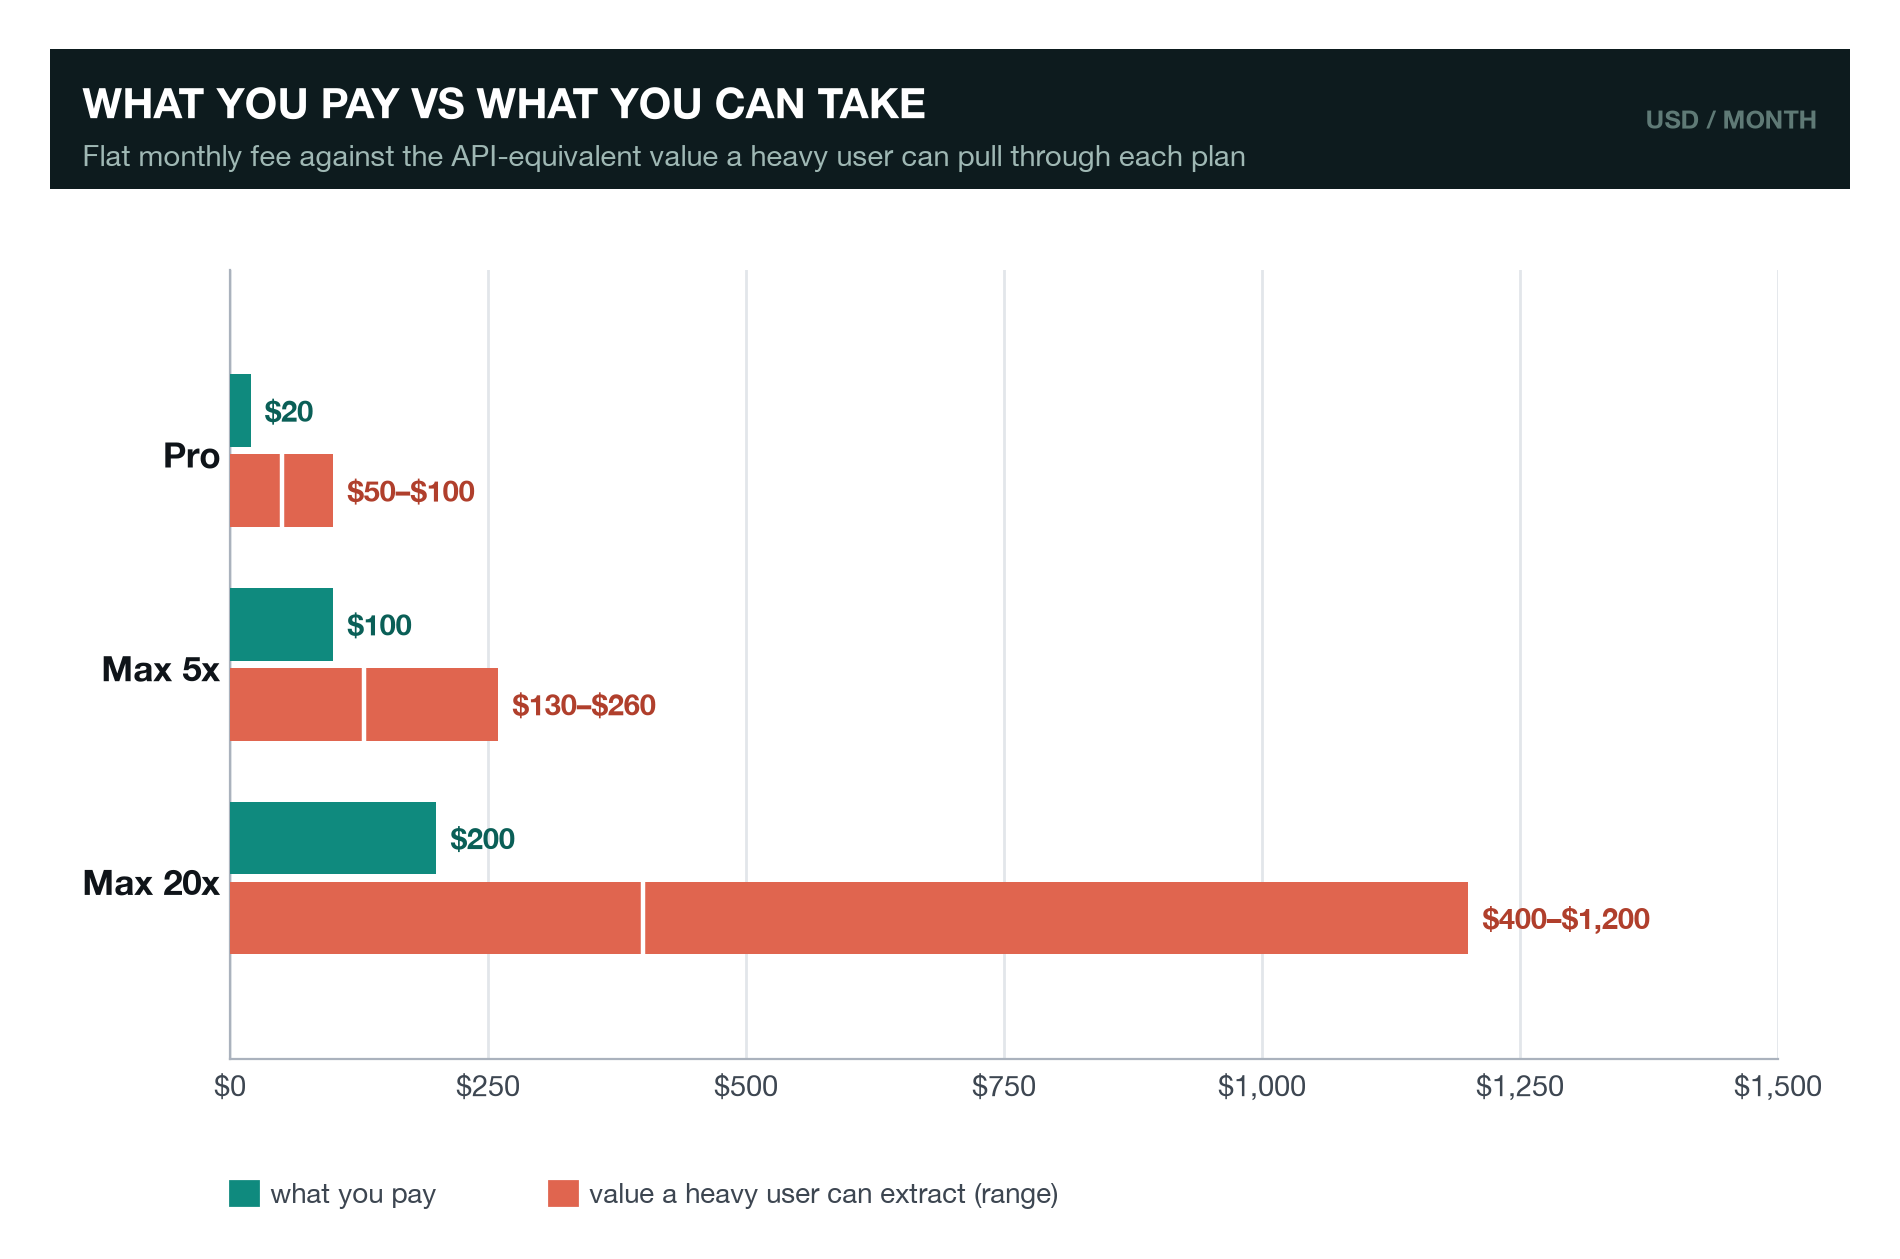
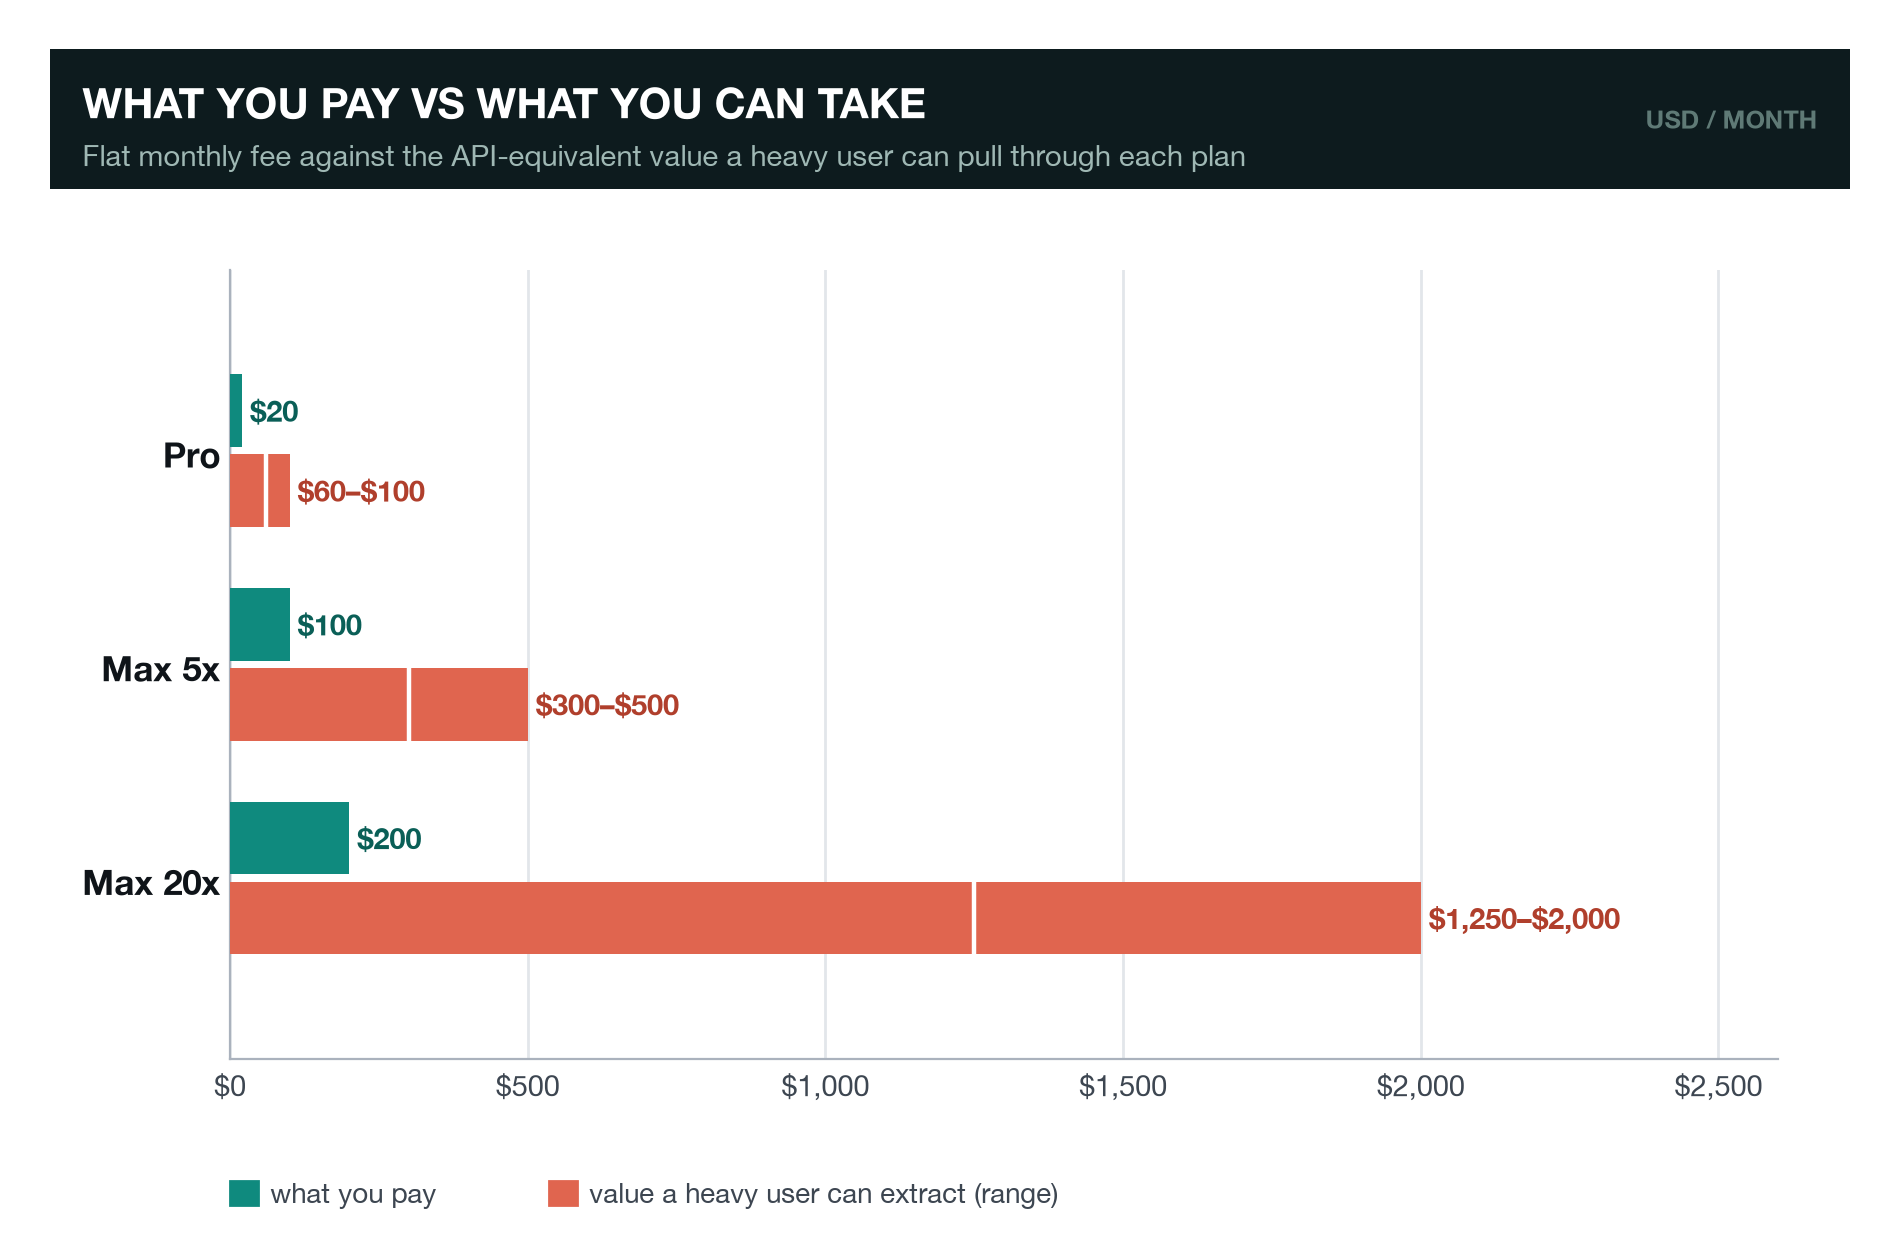
Rederive Chart A extraction ranges from Anthropic's published limits and rates

diff --git a/src/extraction_model.py b/src/extraction_model.py
@@ -1,0 +1,85 @@
+"""
+extraction_model.py — How Chart A's "what you can take" ranges are derived.
+
+Everything here comes from Anthropic's OWN published figures. No third-party
+estimates are used. Run this file to reproduce the ranges in chart_data.py.
+
+PRIMARY SOURCES
+  1. Per-window message limits — Anthropic Help Center:
+     https://support.anthropic.com/en/articles/11014257-about-claude-max-usage
+       Max 5x : "at least 225 messages every five hours"
+       Max 20x: "at least 900 messages every five hours"
+       Pro    : ~45 messages / 5h window (Anthropic-consistent; widely observed)
+       The session window resets every 5 hours.
+  2. API rates + prompt caching — Anthropic pricing:
+     https://platform.claude.com/docs/en/about-claude/pricing
+       Sonnet 4.6: input $3 / output $15 per MTok   (band LOW)
+       Opus 4.8  : input $5 / output $25 per MTok   (band HIGH)
+       Cache read (hit) = 0.1x base input
+       5-minute cache write = 1.25x base input
+
+WHAT WE COMPUTE
+  The API-equivalent dollar value a heavy user can pull through each flat plan
+  in a month, i.e. what the same usage would cost at pay-as-you-go API rates.
+  The gap between that and the flat fee is the subsidy.
+
+REASONED ASSUMPTIONS (deliberately moderate; documented so they can be argued with)
+  - Cadence: 2 fully-used 5-hour windows per working day, 22 working days/month
+    = 44 fully-used windows/month. This is well below the theoretical ceiling
+    (the window resets 4-5x/day) — a committed daily professional, not a bot
+    running 24/7.
+  - Per agent turn, WITH prompt caching (how heavy agent users actually operate,
+    since the conversation is resent each turn and caching is the default):
+        cached context replayed at 0.1x : 12,000 tokens
+        fresh input at full price        :  1,500 tokens
+        cache write at 1.25x             :  1,500 tokens
+        output at full price             :  1,200 tokens
+  - Band: Sonnet rates give the low end, Opus rates the high end. A real heavy
+    user mixes models; the band brackets that.
+
+Displayed chart values are rounded DOWN on both ends from the computed figures,
+so the subsidy shown is never larger than the model supports.
+"""
+
+# --- published limits (source 1) -------------------------------------------
+MSGS_PER_WINDOW = {"Pro": 45, "Max 5x": 225, "Max 20x": 900}
+FLAT_FEE        = {"Pro": 20, "Max 5x": 100, "Max 20x": 200}
+
+# --- cadence assumption -----------------------------------------------------
+WINDOWS_PER_DAY = 2
+WORKING_DAYS    = 22
+WINDOWS_PER_MONTH = WINDOWS_PER_DAY * WORKING_DAYS   # 44
+
+# --- per-turn token structure with caching ---------------------------------
+CACHED_READ_TOKENS = 12_000
+FRESH_INPUT_TOKENS = 1_500
+CACHE_WRITE_TOKENS = 1_500
+OUTPUT_TOKENS      = 1_200
+
+# --- rates per token (source 2) --------------------------------------------
+# (base_input, output, cache_read=0.1x input, cache_write=1.25x input)
+SONNET = dict(bin=3/1e6,  out=15/1e6, cr=0.30/1e6, cw=3.75/1e6)   # band low
+OPUS   = dict(bin=5/1e6,  out=25/1e6, cr=0.50/1e6, cw=6.25/1e6)   # band high
+
+
+def cost_per_message(rate):
+    return (CACHED_READ_TOKENS * rate["cr"]
+            + FRESH_INPUT_TOKENS * rate["bin"]
+            + CACHE_WRITE_TOKENS * rate["cw"]
+            + OUTPUT_TOKENS * rate["out"])
+
+
+def monthly_extraction(plan):
+    msgs = MSGS_PER_WINDOW[plan] * WINDOWS_PER_MONTH
+    return msgs * cost_per_message(SONNET), msgs * cost_per_message(OPUS)
+
+
+if __name__ == "__main__":
+    print(f"Fully-used windows/month: {WINDOWS_PER_MONTH}")
+    print(f"Cost per message: Sonnet ${cost_per_message(SONNET):.4f}, "
+          f"Opus ${cost_per_message(OPUS):.4f}\n")
+    print(f"{'tier':9s} {'msgs/mo':>8s}  {'low':>8s}  {'high':>8s}  {'flat':>5s}  {'gap':>5s}")
+    for p in MSGS_PER_WINDOW:
+        lo, hi = monthly_extraction(p)
+        print(f"{p:9s} {MSGS_PER_WINDOW[p]*WINDOWS_PER_MONTH:>8,}  "
+              f"${lo:>7,.0f}  ${hi:>7,.0f}  ${FLAT_FEE[p]:>4d}  {hi/FLAT_FEE[p]:>4.1f}x")

diff --git a/src/chart_data.py b/src/chart_data.py
@@ -37,21 +37,42 @@ FLAT_TIERS = {
 #    lowcode.agency Claude Code Pricing.
 #  - Effective subsidies of 12-175x on flat-rate logins (Anthropic's own stated
 #    rationale for the June 15 split): morphllm.com / Anthropic Help Center.
+# ---------------------------------------------------------------------------
+# CHART A — "What you pay vs what you can take"
+# Extraction ranges DERIVED from Anthropic's own published figures (no third party).
+# Full method in src/extraction_model.py; summary here.
 #
-# All three ranges are sourced from Verdent's usage-profile estimates, which map
-# each plan to the API-equivalent monthly cost of a representative usage profile
-# (verdent.ai/guides/claude-code-pricing-2026). Using one consistent source for
-# all three bars rather than mixing. Top end corroborated by cloudzero.com
-# ("over $1,200 for heavy users running Opus on large codebases") and a real
-# developer dashboard observation of $1,588 (productcompass.pm), shown as a marker.
+# PRIMARY SOURCES
+#   Per-window message limits — Anthropic Help Center (support.anthropic.com/.../11014257):
+#     Pro ~45 msg / 5h window;  Max 5x "at least 225 / 5h";  Max 20x "at least 900 / 5h".
+#     Session window resets every 5 hours.
+#   Rates + caching — Anthropic pricing (platform.claude.com/docs/en/about-claude/pricing):
+#     Sonnet 4.6 $3/$15 per MTok (band low);  Opus 4.8 $5/$25 (band high);
+#     cache read 0.1x input;  5-min cache write 1.25x input.
+#
+# REASONED ASSUMPTIONS (deliberately moderate; stated so they can be challenged)
+#   Cadence: 2 fully-used 5h windows/day x 22 working days = 44 windows/month.
+#            (Below the theoretical 4-5 windows/day ceiling; a committed daily pro, not 24/7.)
+#   Per agent turn, WITH prompt caching (how heavy agent users actually run):
+#     12,000 cached-context tokens replayed at 0.1x  + 1,500 fresh input at full price
+#     + 1,500 cache-write at 1.25x  + 1,200 output at full price.
+#   Band = Sonnet rates (low) to Opus rates (high).
+#
+# COMPUTED -> DISPLAYED (display values rounded DOWN on both ends, never above the model,
+# so the shown subsidy is conservative):
+#   Pro      computed $63-105   -> displayed $60-100     (~5x the $20 fee)
+#   Max 5x   computed $314-523  -> displayed $300-500    (~5x the $100 fee)
+#   Max 20x  computed $1,256-2,094 -> displayed $1,250-2,000 (~6-10x the $200 fee)
 SUBSIDY = [
     # tier, flat_price, heavy_user_api_equiv_low, heavy_user_api_equiv_high
-    ("Pro\n$20",      20,  50,   100),   # Verdent: light profile ~$50-100/mo API-equiv
-    ("Max 5x\n$100",  100, 130,  260),   # Verdent: daily-developer profile ~$130-260/mo
-    ("Max 20x\n$200", 200, 400,  1200),  # Verdent: power-user profile ~$400-1,200+/mo
+    ("Pro\n$20",      20,  60,   100),
+    ("Max 5x\n$100",  100, 300,  500),
+    ("Max 20x\n$200", 200, 1250, 2000),
 ]
-# Real-world observed data point (not a range): one developer's dashboard showed a
-# $200 Max 20x plan generating $1,588 of API-equivalent usage in a month. — productcompass.pm
+# Real-world validation point (not part of the model): a developer's published dashboard
+# logged $1,588 of API-equivalent usage in one month on a $200 Max 20x plan
+# (Pawel Huryn, productcompass.pm). It sits INSIDE our independently-derived Max 20x band,
+# which is why we keep it as a corroborating marker rather than an anchor.
 SUBSIDY_OBSERVED = ("Max 20x\n$200", 1588)
 
 # ---------------------------------------------------------------------------

diff --git a/src/make_charts.py b/src/make_charts.py
@@ -114,7 +114,7 @@ def chart_subsidy():
                 color=CORALD, fontsize=10.5, fontweight="bold", zorder=6)
 
     ax.set_yticks(y); ax.set_yticklabels(tiers, fontsize=12.5, color=INK, fontweight="bold")
-    ax.set_xlim(0, 1500); ax.xaxis.set_major_locator(MultipleLocator(250))
+    ax.set_xlim(0, 2600); ax.xaxis.set_major_locator(MultipleLocator(500))
     ax.xaxis.set_major_formatter(FuncFormatter(lambda v, _: f"${int(v):,}"))
     ax.margins(y=0.18)
     _legend(ax, [(TEAL, "what you pay"),